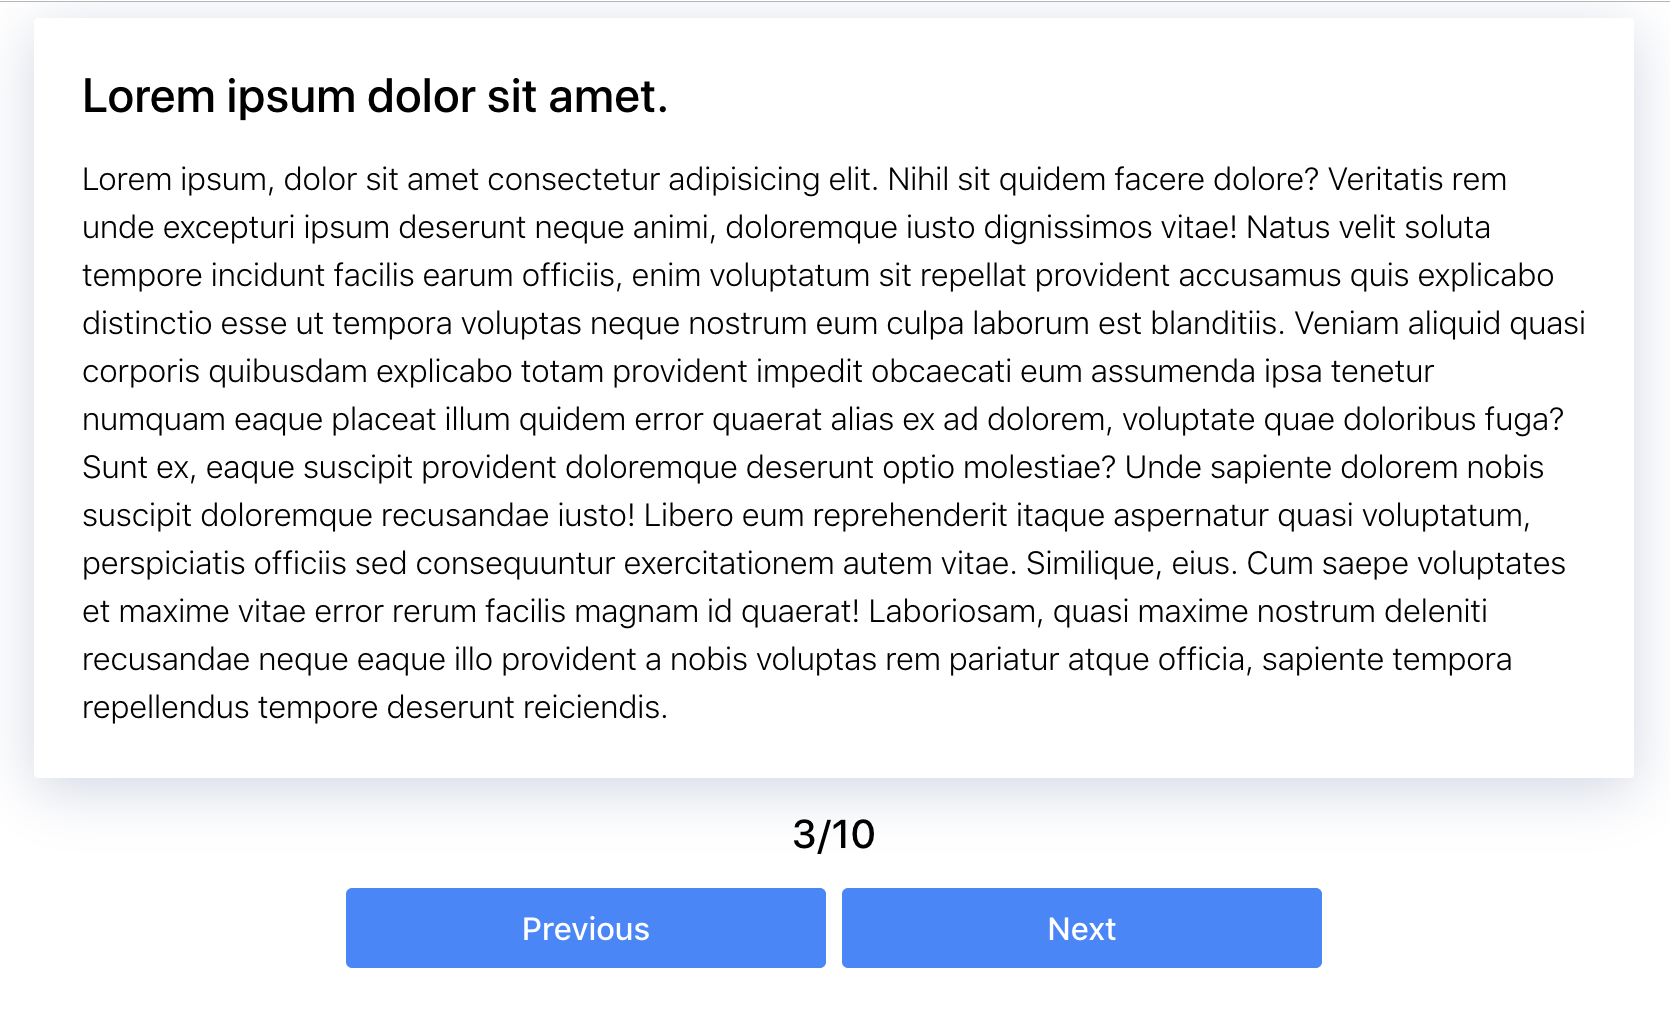
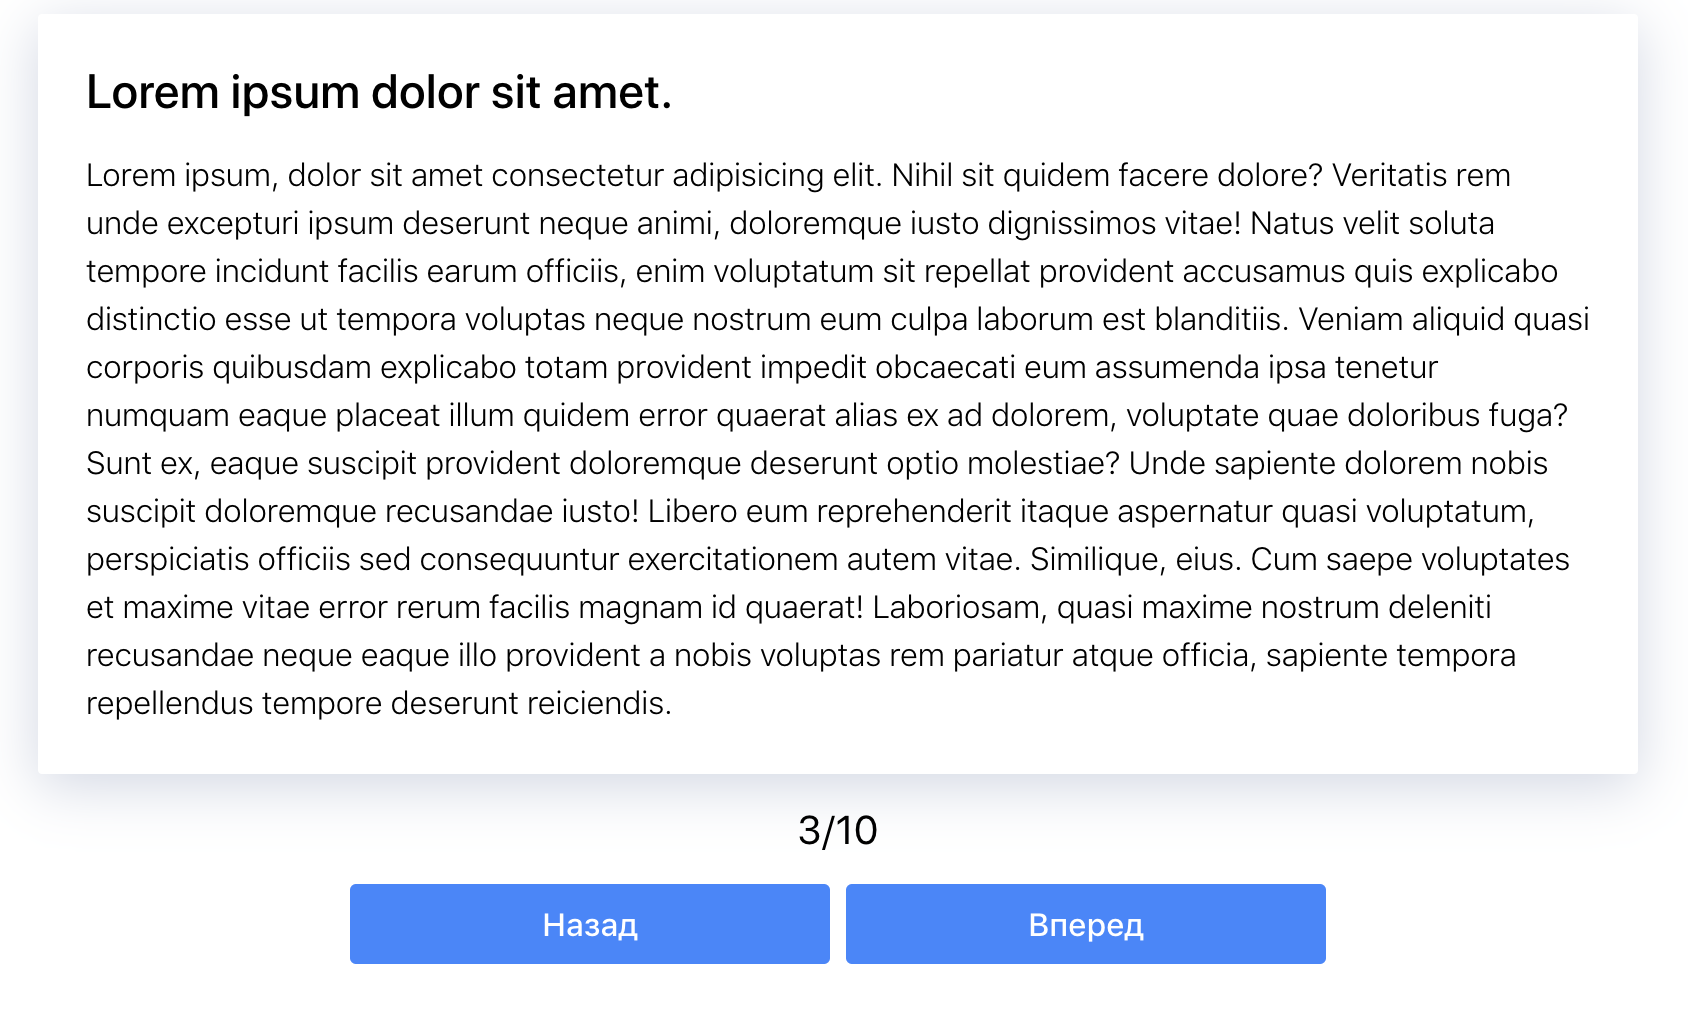
Updates description

diff --git a/homework-02/reader/styles.css b/homework-02/reader/styles.css
@@ -42,7 +42,7 @@ body {
 
 .counter {
   text-align: center;
-  font-weight: 500;
+  font-weight: 400;
   font-size: 20px;
   margin-bottom: 0;
   margin-top: 16px;
@@ -75,6 +75,12 @@ body {
   cursor: pointer;
 }
 
-.button:hover {
+.button[disabled] {
+  pointer-events: none;
+  background-color: #bdbdbd;
+}
+
+.button:hover,
+.button:focus {
   background-color: #1f65d6;
 }

diff --git a/homework-02/reader/README.md b/homework-02/reader/README.md
@@ -37,8 +37,8 @@
   <p class="counter">3/10</p>
 
   <section class="controls">
-    <button class="button">Previous</button>
-    <button class="button">Next</button>
+    <button class="button">Назад</button>
+    <button class="button">Вперед</button>
   </section>
 </div>
 ```
